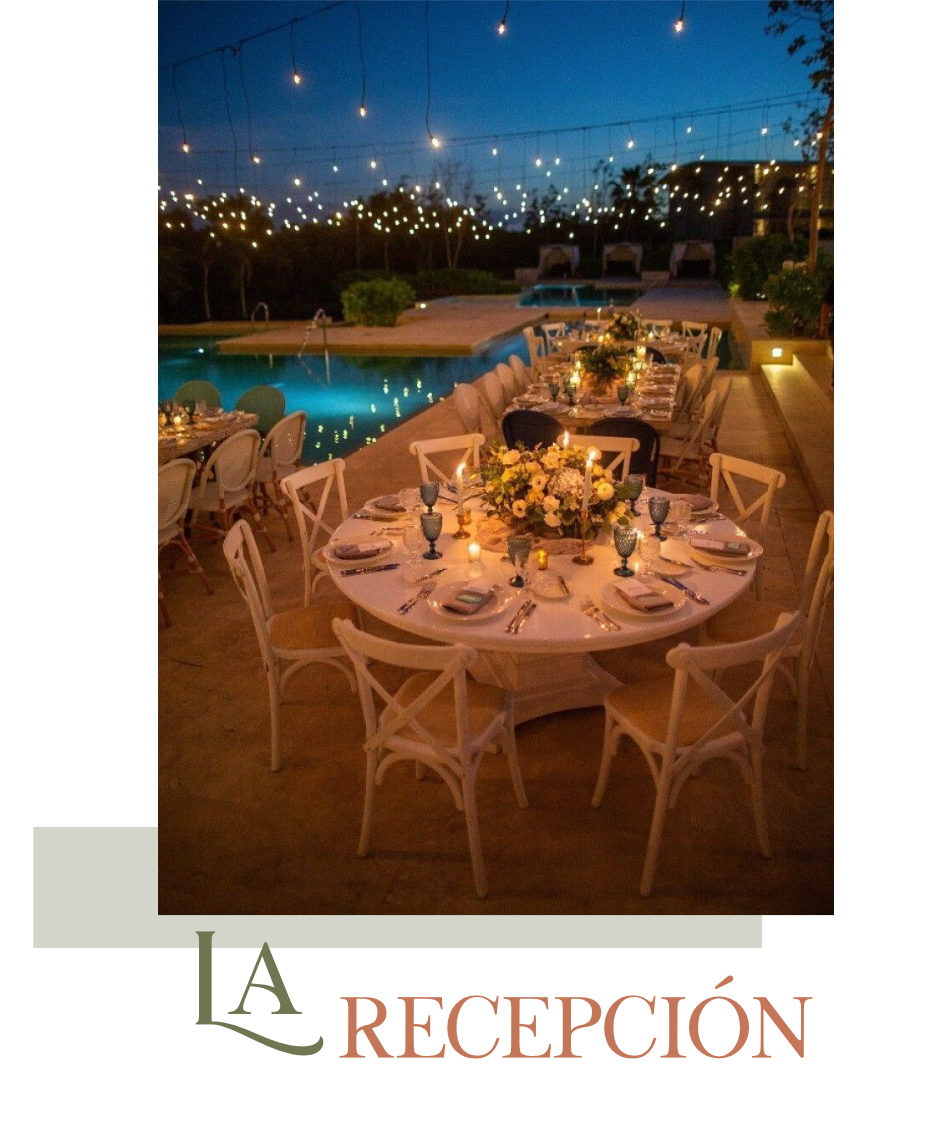
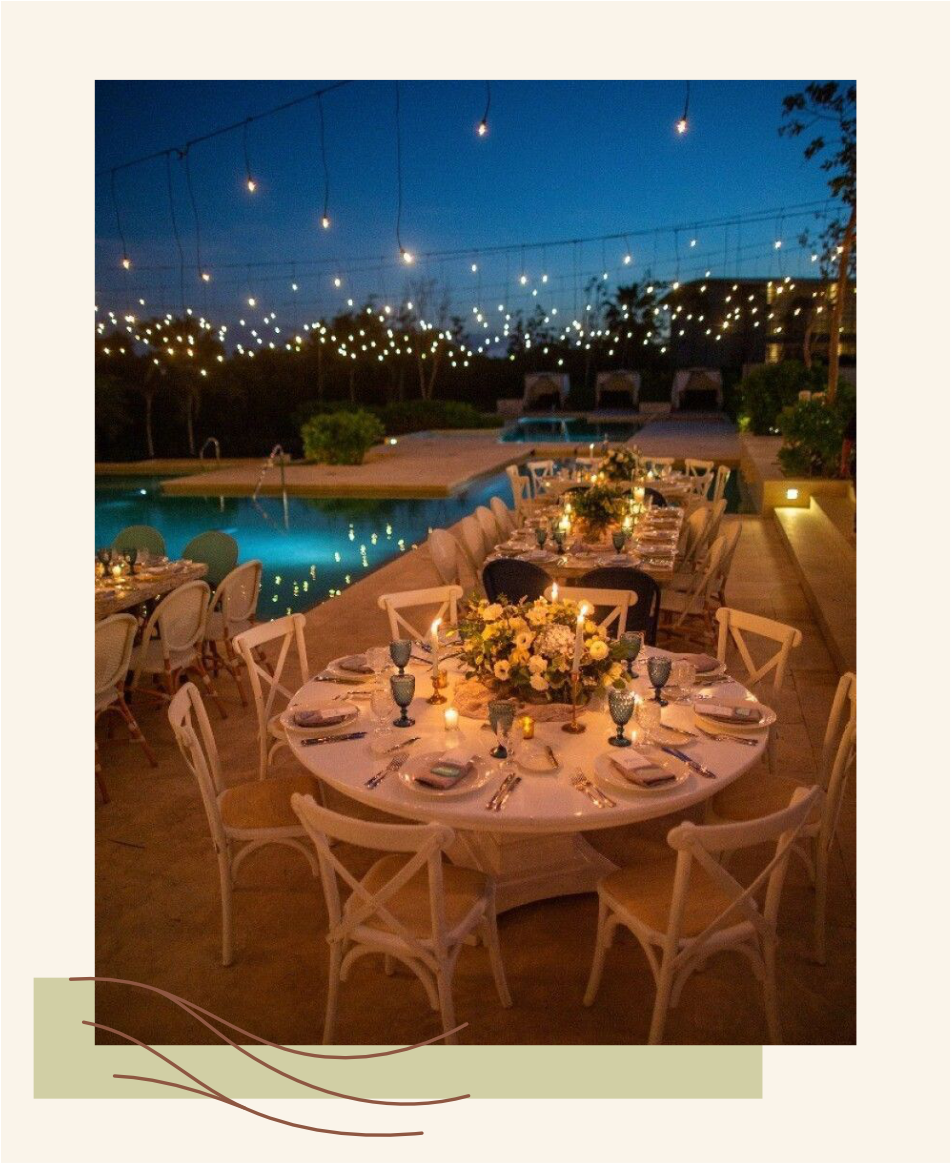
Add files via upload

diff --git a/index.html b/index.html
@@ -8,7 +8,7 @@
 		
 		.container{
 			width: 100%;
-			background-color: white;
+			background-color: #FAF4EA;
 			margin: auto;
 			
 		}
@@ -16,7 +16,7 @@
 		.cabezote{
 			width: 100%;
 			height: 100%;
-			background-color: white;
+			background-color: #FAF4EA;
 			margin: auto;
 			
 			
@@ -25,11 +25,11 @@
 	
 	.text1 {
     font-family: Baskerville, "Palatino Linotype", Palatino, "Century Schoolbook L", "Times New Roman", serif;
-    color: #40442F;
+    color: #6E7029;
     margin-left: 100px;
     margin-right: 100px;
     line-height: 54px;
-    font-size: 44px;
+    font-size: 42px;
     padding-top: 25px;
     padding-bottom: 25px;
 }
@@ -119,15 +119,15 @@ textarea {
     </style>
 </head>
 
-<body bgcolor="#EDEDED">
-	<div class="container">
+<body bgcolor="#FAF4EA">
+	<div class="container cont">
 <div align="center" class="cabezote cabe"><img src="https://raw.githubusercontent.com/soireeco/galeria-de-imagenes/refs/heads/main/cabezote-caro.png" alt="" width="100%">
 		
 		</div>
 		
 	
 		
-		<div align="center" class="cancion audio">
+		<div align="center" class="cancion audio cont">
 		
 				
           <audio preload="auto" controls style="width: 550px; height: 50px" autoplay="autoplay" >
@@ -136,24 +136,24 @@ textarea {
           </audio>
       </div>
 		
-		<div align="center">
+		<div align="center" class="cont">
 
 
 
 <img src="https://raw.githubusercontent.com/soireeco/galeria-de-imagenes/refs/heads/main/monograma-caro.png" alt="" width="650" class="img1">
 		
-  <p class="text1">“Las mejores cosas de la vida son aún más fantásticas cuando son compartidas con personas tan maravillosas como tú, por ello, queremos que seas parte de nuestra boda"<br><br> 
-    <strong>¡Vamos a celebrarlo con una gran fiesta y toda la actitud! </strong></p>
+  <p class="text1">“Estamos haciendo realidad un sueño y no queremos dejar de compartir esta alegría con ustedes , queremos que sean testigos de uno de nuestros momentos más felices e importantes para terminar con un vivieron felices por siempre”<br><br> 
+    <strong>Bienvenidos al inicio de la mejor historia jamás escrita, la nuestra. </strong></p>
   
 		
   </div>
 		
-<div class="cuenta" id="cuenta">
+<div class="cuenta cont" id="cuenta">
 	</div>
 		
 		
 		
-<div align="center">
+<div align="center" class="cont">
 	
 
 <img src="https://raw.githubusercontent.com/soireeco/galeria-de-imagenes/refs/heads/main/locacion-caro.png" alt="" width="550">
@@ -166,7 +166,8 @@ textarea {
   </div>
 		
 		
-		<div align="center">
+		<div align="center" class="cont">
+			<img src="https://raw.githubusercontent.com/soireeco/galeria-de-imagenes/refs/heads/main/lineacar.png" alt="" width="700" class="linea">
 			<img src="https://raw.githubusercontent.com/soireeco/galeria-de-imagenes/refs/heads/main/dia1-caro.png" alt="" width="550" class="img1">
 		
   <p class="text1"><strong>Welcome Coctel
@@ -177,23 +178,25 @@ textarea {
 			
 			<img src="https://raw.githubusercontent.com/soireeco/galeria-de-imagenes/refs/heads/main/dia2-caro.png" alt="" width="550">	
 		
-  <p class="text1"><strong>Simbólica y Civil
+  <p class="text1"><strong>I. Ceremonia
 </strong><br>
-    Sábado 12 de Julio | 4:30 p.m. <br>Playa Campo Golf Club Karibana </p>
-		  <p class="text3"> (Transporte: Casa Club Karibana 4 p.m)</p>
+    Ceremonia Simbólica <br>Sábado 12 de Julio | 4:30 p.m. <br>Playa Campo Golf Club Karibana </p>
+		  <p class="text3"> (Punto de encuentro Casa Club Karibana 4:00 p.m)</p>
  
 			
 		<br><br>	
 		
-  <p class="text1"><strong>Welcome Coctel
+  <p class="text1"><strong>II. Welcome Coctel
 </strong><br>
    Jardín Casa Club Karibana | 6 p.m.  </p>
 			<br><br>
 			
+			 <p class="text1"><strong>III. Recepción </strong></p>
+			
 			<img src="https://raw.githubusercontent.com/soireeco/galeria-de-imagenes/refs/heads/main/recep-caro.png" alt="" width="550">
 		
   <p class="text1">
-   Casa Club Karibana Piscina | 7 p.m.  </p>
+   Área de la piscina <br>Casa Club Karibana Piscina | 7 p.m.  </p>
 		
 
 		
@@ -201,16 +204,19 @@ textarea {
   
 		
 		
-		<div><a href="https://www.google.com/maps/place/MONTANA+CENTRO+DE+EVENTOS/@6.2358937,-75.4417313,15z/data=!4m2!3m1!1s0x0:0x8d661b1ea4efc2fd?sa=X&ved=1t:2428&ictx=111"><br><br><br><img src="https://raw.githubusercontent.com/soireeco/galeria-de-imagenes/refs/heads/main/dc-caro.png" alt="" width="700"></a>
-	<br><p class="text1"><strong>Mujeres </strong><br>Día 1 | Estilo fresco, color blanco 
-	    <br>Día 2 |  Vestido Largo unicolor 
+		<div class="cont"><img src="https://raw.githubusercontent.com/soireeco/galeria-de-imagenes/refs/heads/main/lineacar.png" alt="" width="700" class="linea">
+			<img src="https://raw.githubusercontent.com/soireeco/galeria-de-imagenes/refs/heads/main/dc-caro.png" alt="" width="700">
+	<br><p class="text1"><strong>Mujeres </strong><br>Día 1 | Look fresco, Unicolor blanco
+	    <br>Día 2 |  Traje Formal unicolor Restrictivo a colores de la paleta.
 			
 			<p class="text3"> *Se reserva el color blanco, perla y beige para la novia. </p>
 			
 	  </p>
 			
-			<br><p class="text1"><strong>Hombres </strong><br>Día 1 | Estilo fresco, color blanco 
-	    <br>Día 2 |  Camisa Lino, Pantalón Beige, Zapato cerrado color café o beige.
+			<br><br><br><p class="text1"><strong>Hombres </strong><br>Día 1 | Look fresco, Unicolor blanco 
+	    <br>Día 2 |  Camisa Formal manga larga o guayabera  color blanco <br>Pantalón Beige o camel, <br>Zapato cerrado gama café.
+			
+			<p class="text3"> *Se reserva el color azul para el novio. </p>
 			
 			<br><img src="https://raw.githubusercontent.com/soireeco/galeria-de-imagenes/refs/heads/main/inspirac-caro.png" alt="" width="700">
 			
@@ -221,27 +227,36 @@ textarea {
 		
 	<a href="https://pin.it/3nR738KTf" target="_blank"><img src="https://raw.githubusercontent.com/soireeco/galeria-de-imagenes/refs/heads/main/btn1-caro.png" alt="" width="450"></a></div>
 		<br><br>
-	  <div>
-		  <img src="https://raw.githubusercontent.com/soireeco/galeria-de-imagenes/refs/heads/main/lineacar.png" alt="" width="700"> <p class="text1"> Prepárate para bailar hasta el amanecer, reir sin parar, cantar con el alma y brindar juntos bajo un cielo estrellado. 
-		  <br><br>Queremos que sea una noche de muchos drinks. Por esta razón, será un evento solo para adultos.
+	  <div class="cont">
+		  <img src="https://raw.githubusercontent.com/soireeco/galeria-de-imagenes/refs/heads/main/lineacar.png" alt="" width="700" class="linea"> <p class="text1"><strong>¿Por qué tienes que venir?</strong><br><br>
+		    ¡Porque bailaremos hasta que nos duelan los pies reiremos a carcajadas , cantaremos hasta quedarnos afónicos y brindaremos hasta el amanecer!
+
+<br><br>Queremos que sea una noche de muchos drinks. Por esta razón, será un evento solo para adultos.
 
 
 
-</p>
-		   <img src="https://raw.githubusercontent.com/soireeco/galeria-de-imagenes/refs/heads/main/lineacar.png" alt="" width="700">
+          </p>
+		   <img src="https://raw.githubusercontent.com/soireeco/galeria-de-imagenes/refs/heads/main/lineacar.png" alt="" width="700" class="linea">
 		  <br><img src="https://raw.githubusercontent.com/soireeco/galeria-de-imagenes/refs/heads/main/regalos-caro.png" alt="" width="700"><br>
         <p class="text1"> Ya hemos visto la Mansión, el Ferrari y el Velero, lo único que nos falta es el Dinero.
 
-<br><br>Su apoyo hará que nuestra Luna de Miel sea inolvidable. <br>Bancolombia Ahorros #30039447416
-<br>Nequi: 3102395234
+<br><br>¡Nos será de mucha ayuda tu granito de arena para que nuestra Luna de Miel sea inolvidable! <br><br>Bancolombia Ahorros #30039447416
+<br>Carolina Perez 
+<br>
+Cédula: 52968146<br>Nequi: 3102395234
+
 
 </p>
+		  <img src="https://raw.githubusercontent.com/soireeco/galeria-de-imagenes/refs/heads/main/lineacar.png" alt="" width="700" class="linea">
 		<img src="https://raw.githubusercontent.com/soireeco/galeria-de-imagenes/refs/heads/main/confirma-caro.png" alt="" width="700">
 		  
-		   <p class="text1"> Esperamos tu confirmación <br>antes del 30 de marzo.
+		   <p class="text1"> Nos encantaría verte en nuestra boda y crear juntos recuerdos inolvidables 
+			   <br>Es muy importante para nosotros que confirmes tu asistencia antes del 30 de Marzo, queremos tener todo listo para ti. <br><br>Además, al confirmar envíanos una canción que te gustaría escuchar, disfrutar y bailar en nuestra pista de baile.
+
+<br><br>¡Te esperamos  aunque ya sabemos que no te lo vas a perder! 
 
 </p>
-		  <a href="https://api.whatsapp.com/send?phone=573195103255" target="_blank"><img src="https://raw.githubusercontent.com/soireeco/galeria-de-imagenes/refs/heads/main/btn3-caro.png" alt="" width="450"></a>
+		  <a href="https://api.whatsapp.com/send?phone=573195103255&text=Quiero%20confirmar%20asistencia%20a%20la%20boda%20de%20Carlos%20y%20Carolina." target="_blank"><img src="https://raw.githubusercontent.com/soireeco/galeria-de-imagenes/refs/heads/main/btn3-caro.png" alt="" width="450"></a>
 		  
 		 
        
@@ -252,7 +267,7 @@ textarea {
 		
 		
 	
-	<div align="center">
+	<div align="center" class="cont">
 		 
 			 <br><br>
 		
@@ -262,7 +277,7 @@ textarea {
 	
 	
 	
-	<div>
+	<div class="cont">
 		
 	  <img src="https://raw.githubusercontent.com/soireeco/galeria-de-imagenes/refs/heads/main/galeria-caro.png" alt="" width="100%"  class="galeria">
 	 

diff --git a/css/estilos.css b/css/estilos.css
@@ -75,7 +75,7 @@ body {
     display: flex;
     align-items: center;
     justify-content: center;
-    background-color: #D3D5CA;
+    background-color: #B5B976;
    
 }
 
@@ -172,4 +172,13 @@ body {
 }
 .img1 {
     padding-top: 30px;
+}
+.linea {
+    padding-top: 100px;
+    padding-bottom: 100px;
+}
+.CONT {
+}
+.cont {
+    background-color: #FAF4EA;
 }
